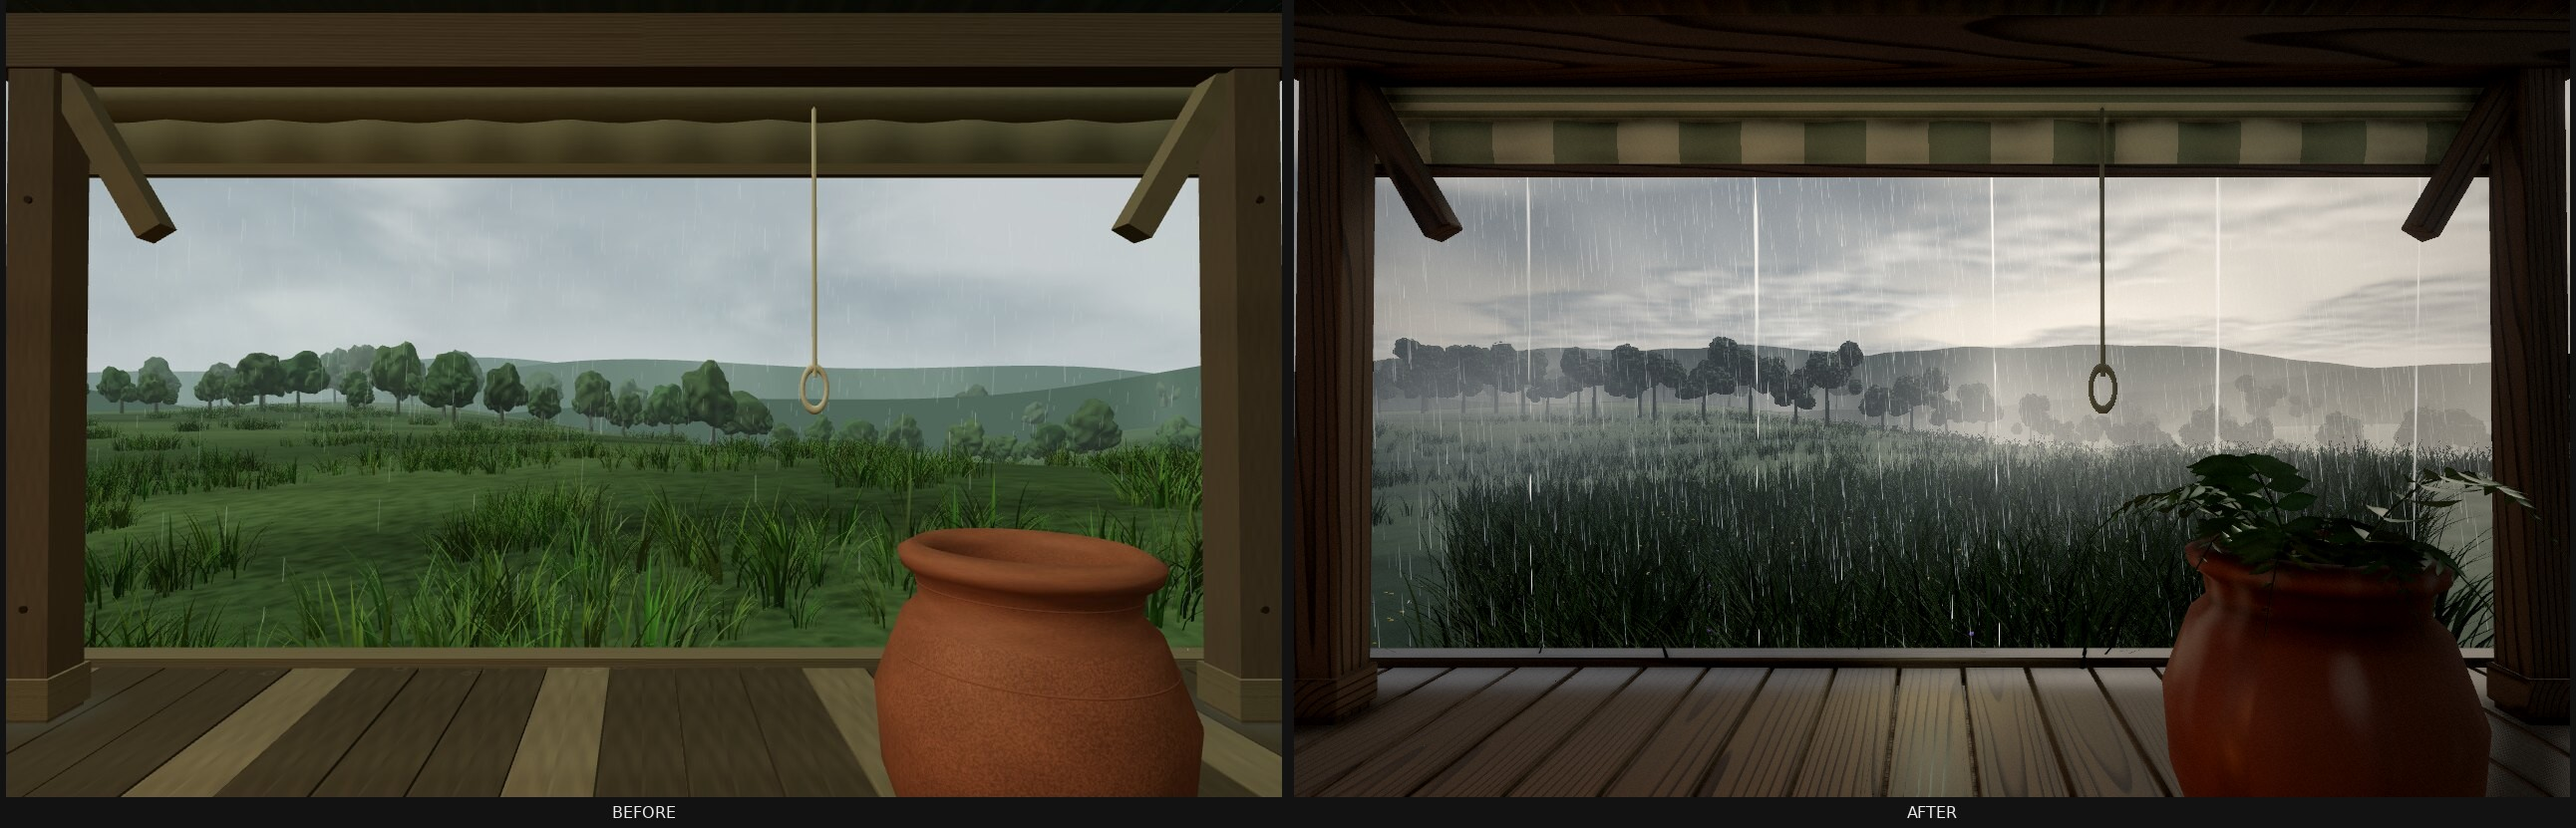
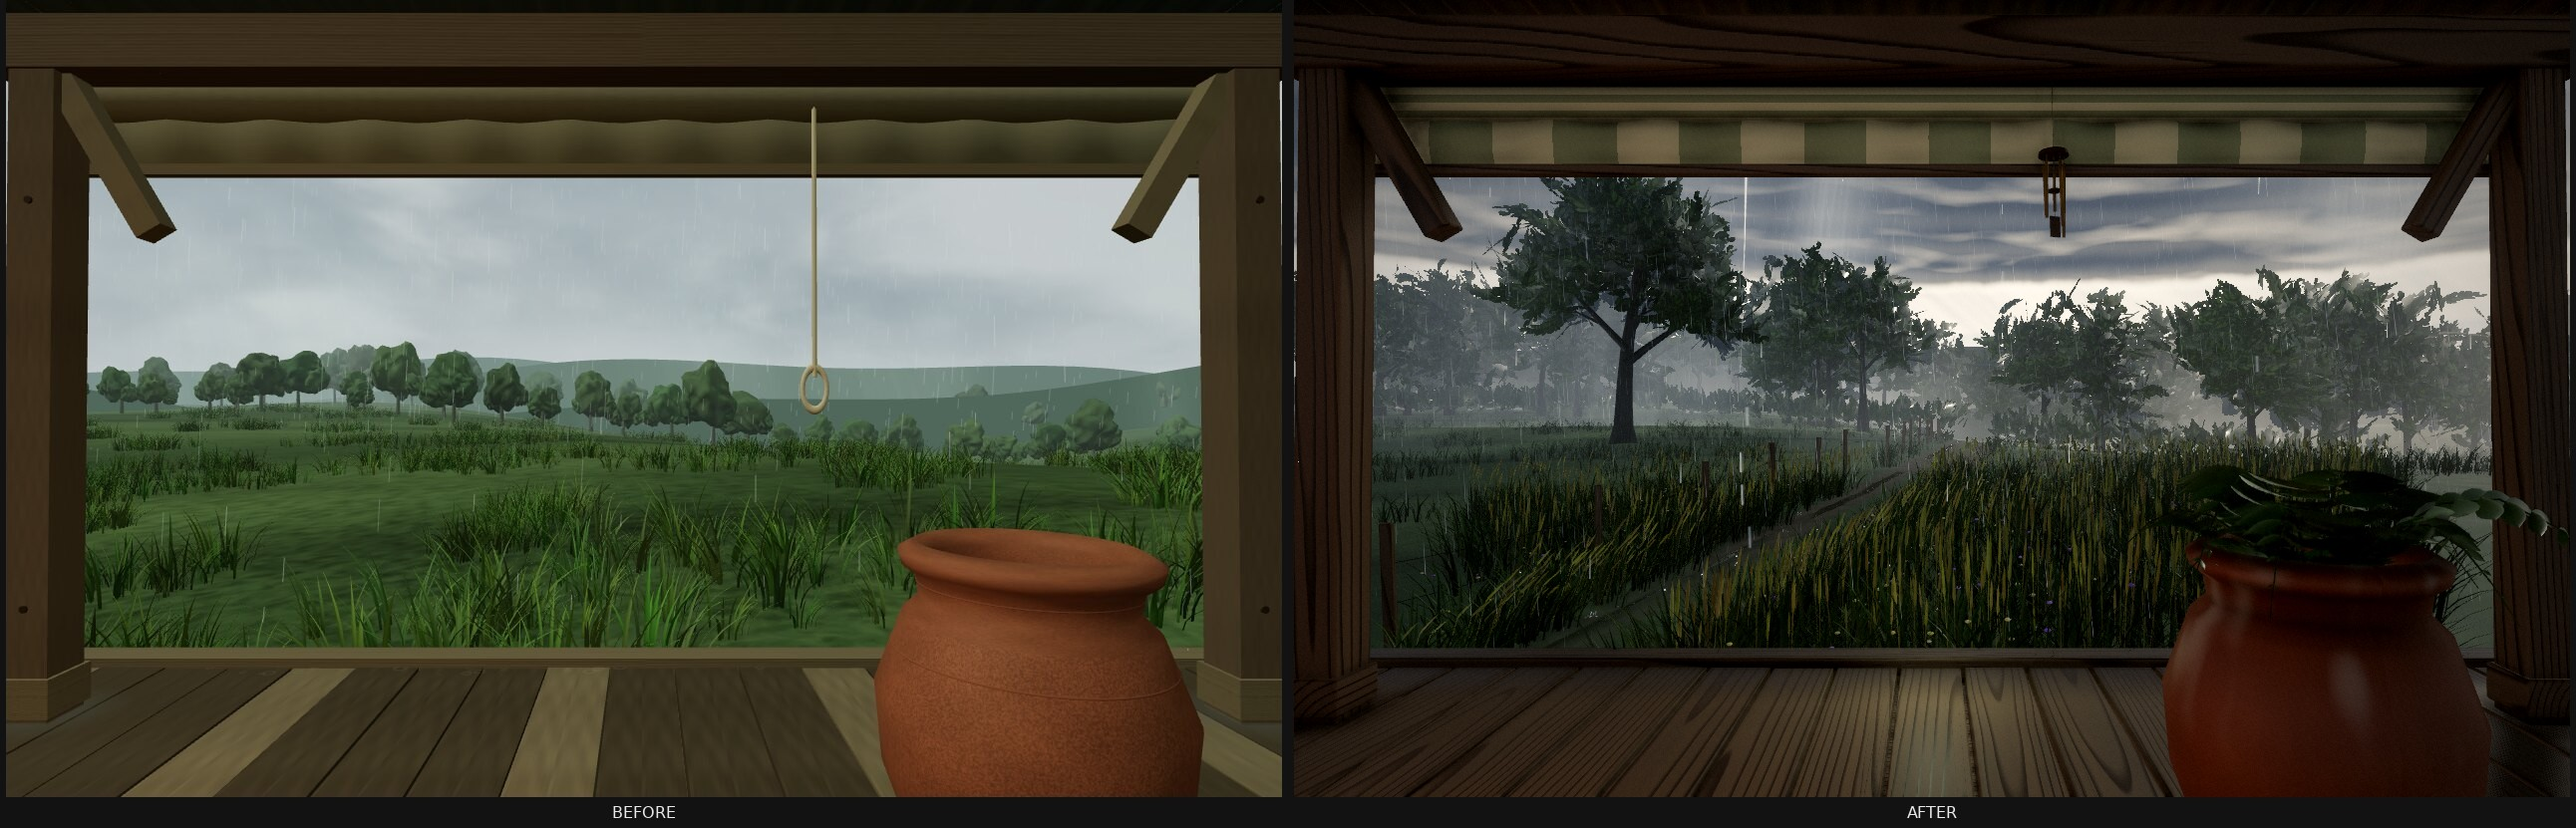
Update rain shelter compare sheets and budget notes
Replace the AFTER panels of the porch, storm and tent compare sheets with
the reworked worlds (BEFORE panels kept), and record the steady-state
triangle counts and the added shader cost in the integration notes.

Claude-Session: https://claude.ai/code/session_01VGKbtA9UtDn2W8JCtvG1sG

Changed region(s): [[0.5263, 0.0903, 1.0, 0.8424]]

diff --git a/components/immersiveWorlds/rainShelters/INTEGRATION.md b/components/immersiveWorlds/rainShelters/INTEGRATION.md
@@ -92,7 +92,14 @@ Everything remains procedural code: world-space timber/bark/ground/wet-surface s
   - **Fly.** The polka-dot beads are replaced. Beads of uneven sizes gather in clusters and cast soft shadows wider than themselves, with a small focused core just downhill. A few drops slide slowly on meandering paths and leave dark trails, and soaked patches darken the lower walls and seams.
   - **Wood.** The wood outside is darker and deeper. Cedar foliage hangs in spray cards. Vine-maple saplings and salal mounds form an understory, and a muddy footpath with rain-filled hollows winds away from the door.
 - **Shared and family modules.** Shared changes are additive only: the `rainStreaks` options above and `createRunoff(...).setViewHeight`. New family module `engine/wetFoliage.ts` holds the wet leaf-card material, clipped-shrub cards, hanging spray cards and grass tufts. `engine/atmosphere.ts` gains the `heavy` sky.
-- **QA.** The harness accepts `t=<seconds>` to start the scene clock at any moment. `capture-quality.mjs` accepts `RAIN_QA_TIMEOUT` for a busy machine.
+- **QA.** The harness accepts `t=<seconds>` to start the scene clock at any moment. `capture-quality.mjs` accepts `RAIN_QA_TIMEOUT` for a busy machine. It also reports `sceneTriangles`: every visible triangle of the scene, counted before frustum culling, which is the steady-state cost of the main pass. The renderer counter for the first frame also includes the one-off shadow-map passes, because shadow maps are rendered once (they are static).
+- **Budget.** The steady-state main pass is about 0.66M triangles for the porch, 0.75M for the storm and 0.39M for the tent. That keeps all three under the 0.9M phone budget.
+- **Added shader cost.**
+  - Leaf cards use a clearcoat film and alpha-to-coverage.
+  - The storm sky evaluates about 35 noise octaves per sky pixel, fewer than the roughly 48 of the sky it replaces.
+  - Gust-band rain layers evaluate two noise octaves per vertex.
+  - Grass waves cost one noise call per vertex and one per terrain fragment.
+  - No full-screen passes were added.
 
 ## QA separation
 
